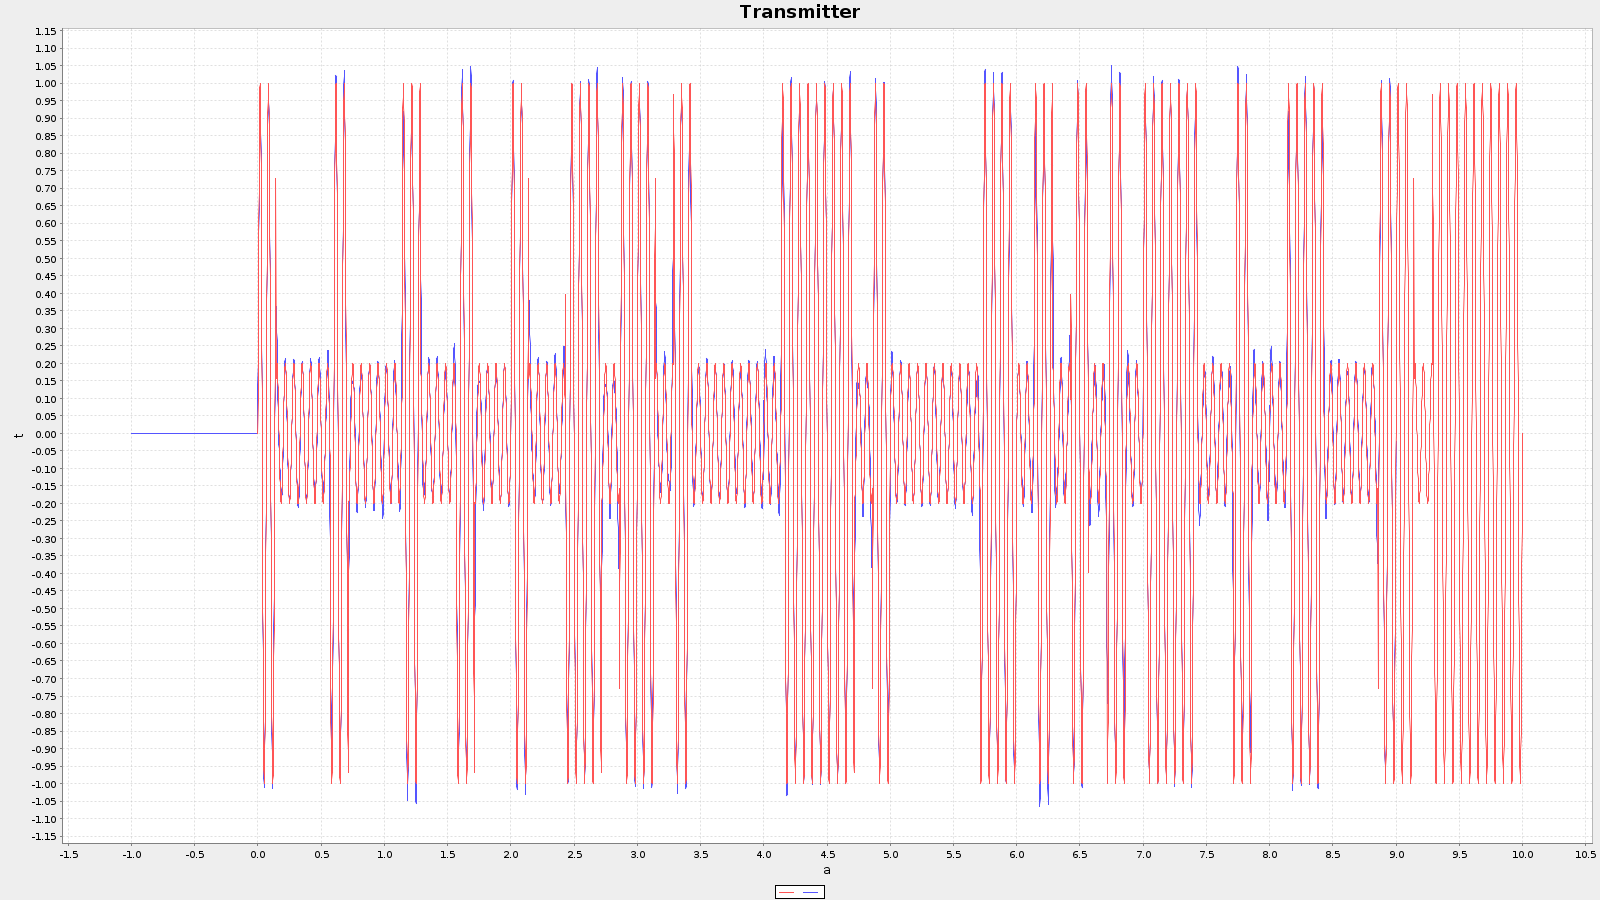
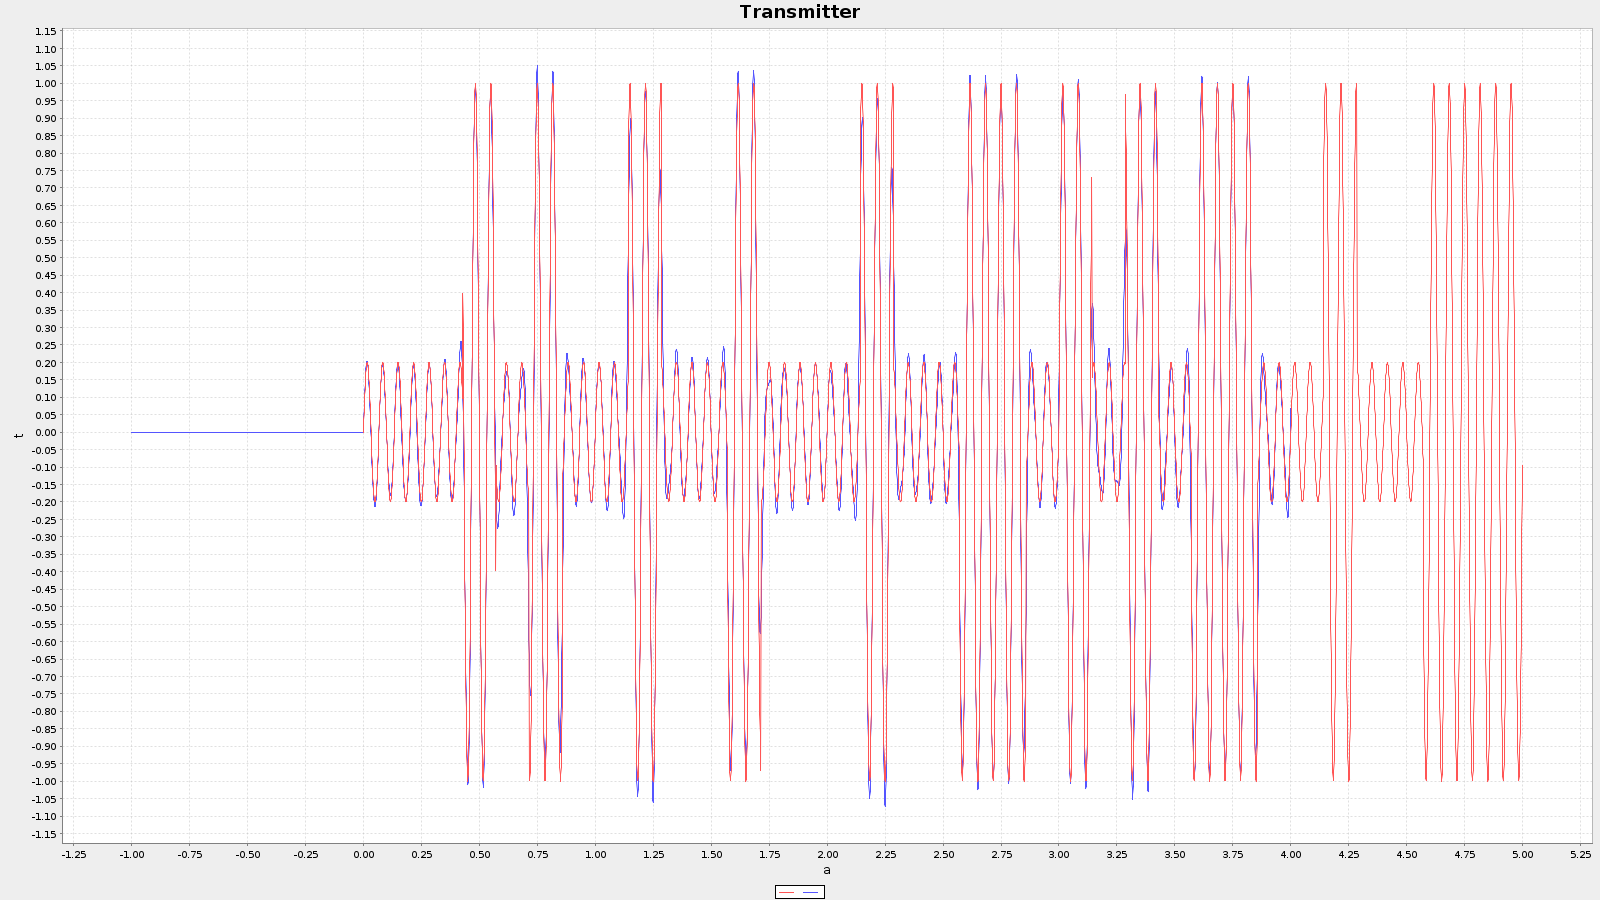
more elegant display close

Changed region(s): [[0.1562, 0.0933, 0.9688, 0.8711], [0.0, 0.8089, 0.0312, 0.84], [0.0, 0.5911, 0.0312, 0.6222]]

diff --git a/channel-simulation/java-channel-simulation/src/main/java/display/Display.java b/channel-simulation/java-channel-simulation/src/main/java/display/Display.java
@@ -3,24 +3,24 @@ package display;
 import java.awt.*;
 import java.awt.event.WindowAdapter;
 import java.awt.event.WindowEvent;
-import java.util.ArrayList;
 
 public class Display extends Frame implements Runnable {
 
     private final Scope transmitterScope, channelScope;
     private final TextField dataIn, dataOut;
+    private boolean finished = false;
 
     private String byteToString(byte b) {
         String intStr = Integer.toBinaryString(b);
-        String outStr = "";
+        StringBuilder outStr = new StringBuilder();
         if (intStr.length() > 8) {
-            outStr = intStr.substring(24);
+            outStr = new StringBuilder(intStr.substring(24));
         } else {
-            for (int i = 8; i > intStr.length(); i--) outStr += "0";
-            outStr += intStr;
+            outStr.append("0".repeat(8 - intStr.length()));
+            outStr.append(intStr);
         }
 
-        return outStr;
+        return outStr.toString();
     }
 
     public void update(double transmitterValue, double channelValue,  byte byteIn, byte byteOut, double timeStep) {
@@ -34,14 +34,14 @@ public class Display extends Frame implements Runnable {
         this.setSize(1600, 900);
         Color scopeColour = new Color(0x000088);
 
-        this.transmitterScope.setSize(this.getWidth() / 2, this.getHeight() / 2);
+        this.transmitterScope.setSize(this.getWidth() / 2 - 10, this.getHeight() / 2);
         this.transmitterScope.setLocation(0, 10);
         this.transmitterScope.setBackground(scopeColour);
         this.transmitterScope.setVisible(true);
         this.add(this.transmitterScope);
 
-        this.channelScope.setSize(this.getWidth() / 2, this.getHeight() / 2);
-        this.channelScope.setLocation(this.getWidth() / 2, 10);
+        this.channelScope.setSize(this.getWidth() / 2 - 10, this.getHeight() / 2);
+        this.channelScope.setLocation(this.getWidth() / 2 + 10, 10);
         this.channelScope.setBackground(scopeColour);
         this.channelScope.setVisible(true);
         this.add(this.channelScope);
@@ -59,7 +59,10 @@ public class Display extends Frame implements Runnable {
         this.addWindowListener(new WindowAdapter() {
             @Override
             public void windowClosing(WindowEvent e) {
-                System.exit(0);
+                Display.this.finished = true;
+                synchronized (Display.this) {
+                    Display.this.notifyAll();
+                }
             }
         });
 
@@ -78,5 +81,9 @@ public class Display extends Frame implements Runnable {
         this.channelScope = new Scope();
         this.dataIn = new TextField();
         this.dataOut = new TextField();
+    }
+
+    public boolean isFinished() {
+        return this.finished;
     }
 }

diff --git a/channel-simulation/java-channel-simulation/src/main/java/simulator/Simulator.java b/channel-simulation/java-channel-simulation/src/main/java/simulator/Simulator.java
@@ -45,6 +45,7 @@ public class Simulator {
             }
 
             if (this.display == null) continue;
+            if (this.display.isFinished()) break;
             this.display.update(transmitterOut.get(transmitterOut.size() - 1).getY().doubleValue(), channelOut.get(channelOut.size() - 1).getY().doubleValue(), byteIn, byteOut, this.timeStep);
         }
 
@@ -57,6 +58,13 @@ public class Simulator {
         Plotter.plot("Transmitter", "../assets/transmitter.png", "a", "t", new XYDataItem(1600, 900), new XYDataItem[][] {transmitterArr, channelArr});
 
         this.receiver.getDemodulator().getDataOut().close();
+
+        if (this.display == null) return;
+        System.out.println("waiting for display to be closed...");
+        synchronized (this.display) {
+            while (!this.display.isFinished()) this.display.wait();
+        }
+        this.display.dispose();
     }
 
     public Simulator(Transmitter transmitter, Receiver receiver, Channel channel, double startTime, double endTime, double timeStep, boolean realtime) {

diff --git a/channel-simulation/java-channel-simulation/src/main/java/main/Main.java b/channel-simulation/java-channel-simulation/src/main/java/main/Main.java
@@ -60,7 +60,7 @@ public class Main {
         Channel channel = new Channel(new Filter(0, 30), modulator.getRMS(), noise);
         Receiver receiver = new Receiver(new ASKDemodulator(depth, amplitude, carrierF, modulationF));
 
-        Simulator simulator = new Simulator(new Transmitter(modulator), receiver, channel, 0, 10, 0.001, new Display("Simulator"));
+        Simulator simulator = new Simulator(new Transmitter(modulator), receiver, channel, 0, 5, 0.001, new Display("Simulator"));
 
         Thread t1 = new Thread(() -> {
             while (!receiver.getDemodulator().getDataOut().isClosed()) {
